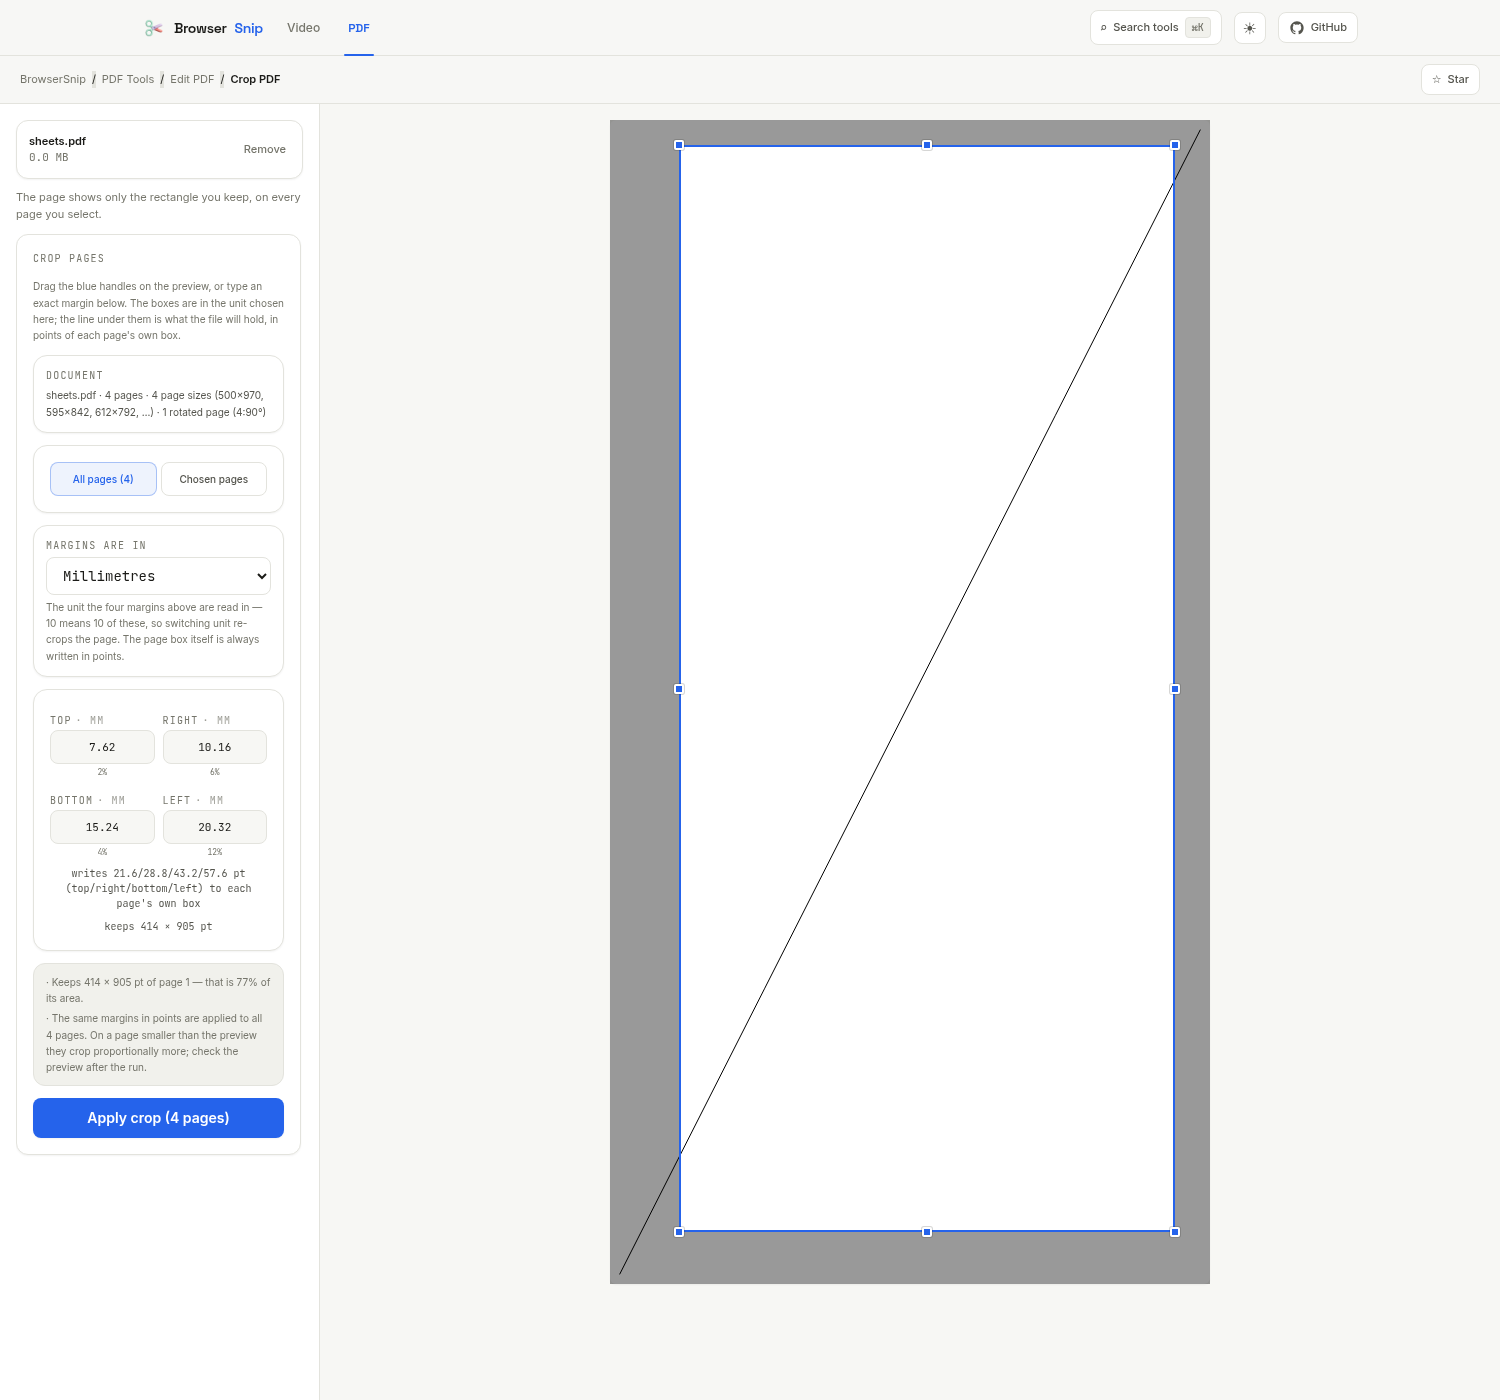
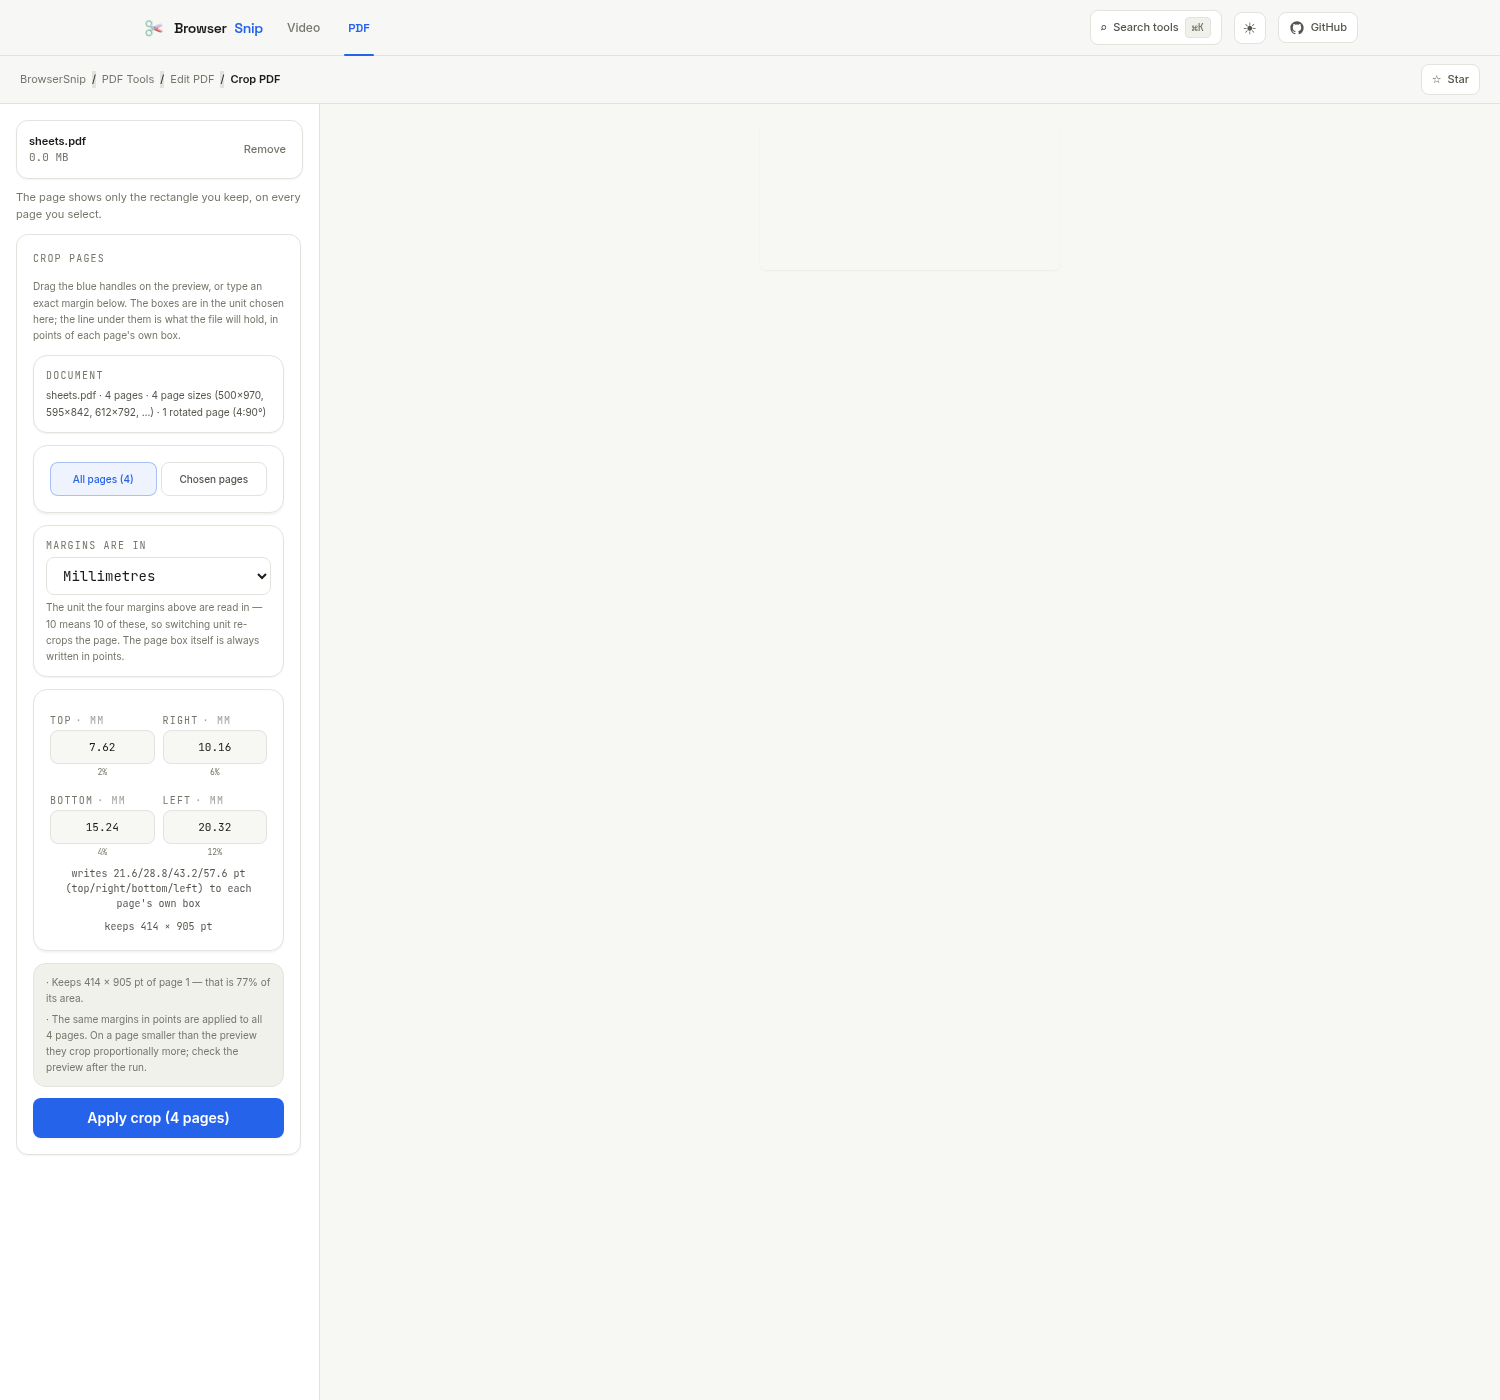
docs(research): the deployed answers to both retired-control questions
Asking the shipped build, not the module graph:

* `crop-units-run.mjs` + `crop-units-fixture.mjs` drive the crop pane in Chromium,
  once per unit -- pt 21.6/28.8/43.2/57.6, mm 7.62/10.16/15.24/20.32, cm
  0.762/1.016/1.524/2.032, in 0.3/0.4/0.6/0.8 -- on the four-sheet fixture. Every run
  printed `writes 21.6/28.8/43.2/57.6 pt` on the panel, and `crop-units-read.py` through
  pypdf found the same /MediaBox and /CropBox on all four sheets of all four files:
  [75.6, 67.2, 489.2, 972.4] / [57.6, 43.2, 566.48, 820.29] / [57.6, 43.2, 583.2,
  770.4] / [57.6, 43.2, 371.2, 678.4], zero corner drift, /CropBox equal to /MediaBox
  throughout, no console error. `crop-units-deployed.log` is that read; the four PDFs
  themselves hash alike (6abdf5b4...), which is the strongest form of "the unit is
  read, not ignored".
* `folded-id-check.mjs` asks what `redact`'s retirement left open: `#/tool/redact`
  folds to `#/tool/redact-pdf`, loads into the redaction panel whose apply button reads
  `Apply 0 Redactions` beside the permanent-redaction warning and the metadata switch,
  and the words "Redact Regions" appear nowhere on the page. The copy and the catalogue
  then agree: the dashboard prints 121, renders 121 cards, and its six shelves count
  20 + 36 + 18 + 20 + 11 + 16 = 121; the landing says "121 PDF tools" and, in the
  section still below the fold, "121 tools · 6 categories" (the video shelf is 8, for a
[…]

Changed region(s): [[0.3987, 0.0614, 0.828, 0.9214], [0.0307, 0.43, 0.1533, 0.4607]]

diff --git a/docs/research/crop-units-read.py b/docs/research/crop-units-read.py
@@ -153,13 +153,21 @@ def main() -> int:
         for line in failures:
             print(f"  {line}")
         return 1
-    print(
-        f"OK: {len(paths)} file(s) read back as asked. The unit spellings of one region "
-        f"wrote the same /MediaBox and /CropBox on all {len(SHEETS)} sheets (an offset "
-        "page, A4, US Letter and a /Rotate 90 sheet), within the file's own rounding of "
-        f"{TOLERANCE} pt, and the panel's millimetre entry wrote the same region "
-        "converted to points."
-    )
+    # Say only what was actually read: the deployed probe passes four unit files and no
+    # panel file, and a summary that claimed the panel too would be a sentence the
+    # invocation cannot support.
+    parts = []
+    if len(seen) > 1:
+        parts.append(
+            f"the {len(seen)} unit spellings of one region wrote the same /MediaBox and "
+            f"/CropBox on all {len(SHEETS)} sheets (an offset page, A4, US Letter and a "
+            f"/Rotate 90 sheet), within the file's own rounding of {TOLERANCE} pt"
+        )
+    elif len(seen) == 1:
+        parts.append(f"the {next(iter(seen))} run matched the region it declared")
+    if any(unit_of(path) == "panel" for path in paths if path.exists()):
+        parts.append("the panel's millimetre entry wrote the same region converted to points")
+    print(f"OK: {len(paths)} file(s) read back as asked — " + "; and ".join(parts) + ".")
     return 0
 
 
